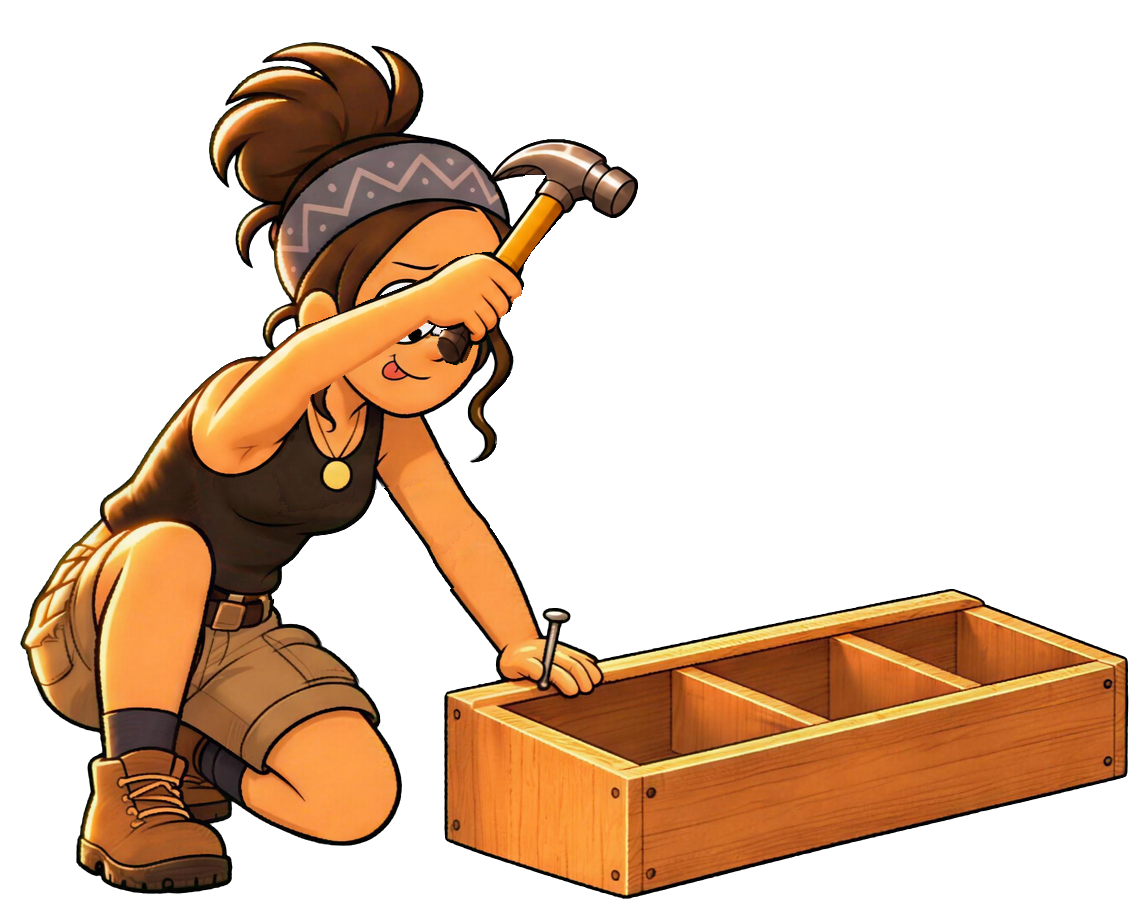
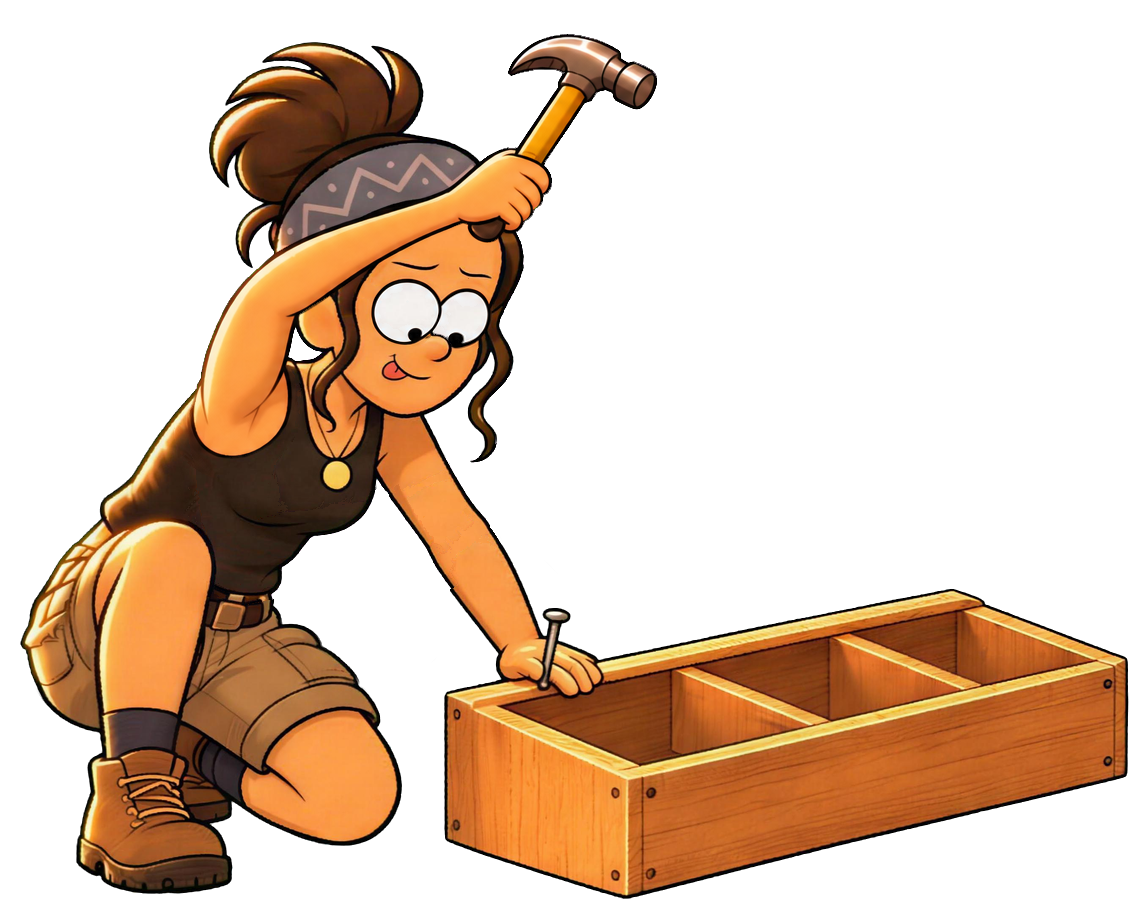
Build art fixes from Quinn 038: frame_01_02 and frame_02_03b redrawn, rx_B36 hand, rx_A52 eyes, rx_K1_B36 hammer edge
Claude-Session: https://claude.ai/code/session_01D6nkZgPMpsdYhHQXBycayq

Changed region(s): [[0.1527, 0.0306, 0.5803, 0.5197]]

diff --git a/frames/001-hammer-loop/quinn-jobs/038-build-art-fixes/job.md b/frames/001-hammer-loop/quinn-jobs/038-build-art-fixes/job.md
@@ -1,0 +1,31 @@
+You are Quinn, illustrator for HJaaS. These are Rachel's Build drawings (no glasses, approved), on flat green #00FF00, 1536x1024. The site's browser checks found faults in three drawings and two small blemishes. Fix them. Work in parallel with subagents, one per output, and use an independent QC subagent at the end (see AGENTS.md).
+
+The hammer swing, in order: green_frame_01 (hammer on the box) → green_frame_01_02 → green_frame_02 (just lifted) → green_frame_02_03a → green_frame_02_03b → green_frame_03 (raised high, hand above her forehead).
+The thumbs-up, in order: green_rx_K1 → green_rx_K1_B36 → green_rx_B36 → green_rx_B36_B39 → green_rx_B39 (thumbs up).
+
+Make these 5 drawings:
+
+1. out/frame_01_02.png: REDO this in-between. The current green_frame_01_02 has a dark cut line across her upper arm where the edit was pasted, ragged outlines, and loose pixels by the hammer. Make it an EDIT of green_frame_01 in which ONLY her hammer arm, hand and the hammer move, to exactly halfway between frame_01 and frame_02. Outlines must be clean and continuous. No seams, no stray pixels.
+
+2. out/frame_02_03b.png: REDO this in-between. In the current one her forearm and fist cover her eyes, and scraps of eye show around the fist, so her eyes vanish in every swing. Make it an EDIT of green_frame_02_03a in which ONLY her hammer arm, hand and the hammer move, two thirds of the way from frame_02 to frame_03.
+   - Her raised forearm must pass ABOVE her eyes, at headband/forehead height, going up toward frame_03's pose.
+   - Her elbow is out to the side, and the hammer head is above her head.
+   - Both eyes, the brows and the nose stay fully visible and exactly as in the input.
+
+3. out/rx_B36.png: an EDIT of green_rx_B36 in which ONLY her lifting forearm and hand are redrawn, in exactly the same position and pose. Today that hand is blurred and greenish, and it stands out between two sharp drawings.
+   - Make it crisp, in the same flat cartoon style as the hand in green_rx_B39: thick even outline, flat skin colour with one shadow tone.
+   - No green or grey tint anywhere on the skin.
+
+4. out/rx_A52.png: an EDIT of green_rx_A52 in which ONLY the eye whites change. Remove the faint grey rings beside the pupils so the whites are clean, like the eyes in green_rx_A53. Pupils, outlines and everything else stay pixel for pixel.
+
+5. out/rx_K1_B36.png: an EDIT of green_rx_K1_B36 in which ONLY the hammer's metal head changes. Its outline is stair-stepped and jagged; give it a smooth, clean outline of the same shape, size, angle and colours.
+
+WHAT MUST NOT CHANGE in each: everything outside the named part, pixel for pixel as in the input. That covers her face (no glasses, round white eyes with dot pupils), hair, headband, earrings, pendant, tank top, the other arm, cargo shorts, boots, the wooden box and the green background. Same frame, position and size. Same flat cartoon style: thick even outlines, flat colour with one shadow tone.
+
+GENERAL RULES (automated job, do it in one go, ask no questions):
+- Use $imagegen (the built-in image_gen tool) to EDIT the named input, using the neighbouring drawings as references. Never draw from scratch, never use SVG/HTML/code.
+- After each edit, check with Python that nothing outside the named part changed from the input. If it did, paste the input back over everything else, with a soft edge that leaves no seam. Check the arm and hammer sit between the two references.
+- No glasses on Rachel, ever.
+- At most 2 attempts per output.
+- Save PNGs, 1536x1024, in ./out/ with exactly these names.
+- Then write ./out/report.md: one honest line per file, plus the QC subagent's verdict per file.

diff --git a/reviews/build-no-glasses-wren.md b/reviews/build-no-glasses-wren.md
@@ -16,3 +16,11 @@ The engineering passes: patches, memory peak of 78.1 MB, hunt 50/50, no seams. T
 - Change the reaction steps of 25 and 30 ms to 33 ms, an even two frames at 60 Hz.
 
 **Memory:** the margin is under 2 MB. Any further in-between in Build or Grow ships as a patch.
+
+## Quinn 038 checked by Wren (2026-11-25)
+- **frame_01_02:** the cut line, ragged outlines and loose pixels are gone. The steps measure 46 and 49, as before.
+- **rx_B36:** the hand is crisp, with no green tint. **rx_A52:** the whites are clean. **rx_K1_B36:** the hammer edge is smooth.
+- **frame_02_03b:** both eyes now stay visible. But the arm has gone 95% of the way to frame_03, so the step from 02_03a is 117 against 40 after it, and 92 if 02_03b were skipped.
+  - Quinn job 039 is drawing `frame_02_03ab` halfway between them, with the fist beside her temple, outside her face.
+  - The swing becomes 02 → 02_03a → 02_03ab → 02_03b → 03.
+- **Pasting:** only the changed zone went in, keyed with a soft 3 px edge. Nothing outside the zone changed (0 levels).
